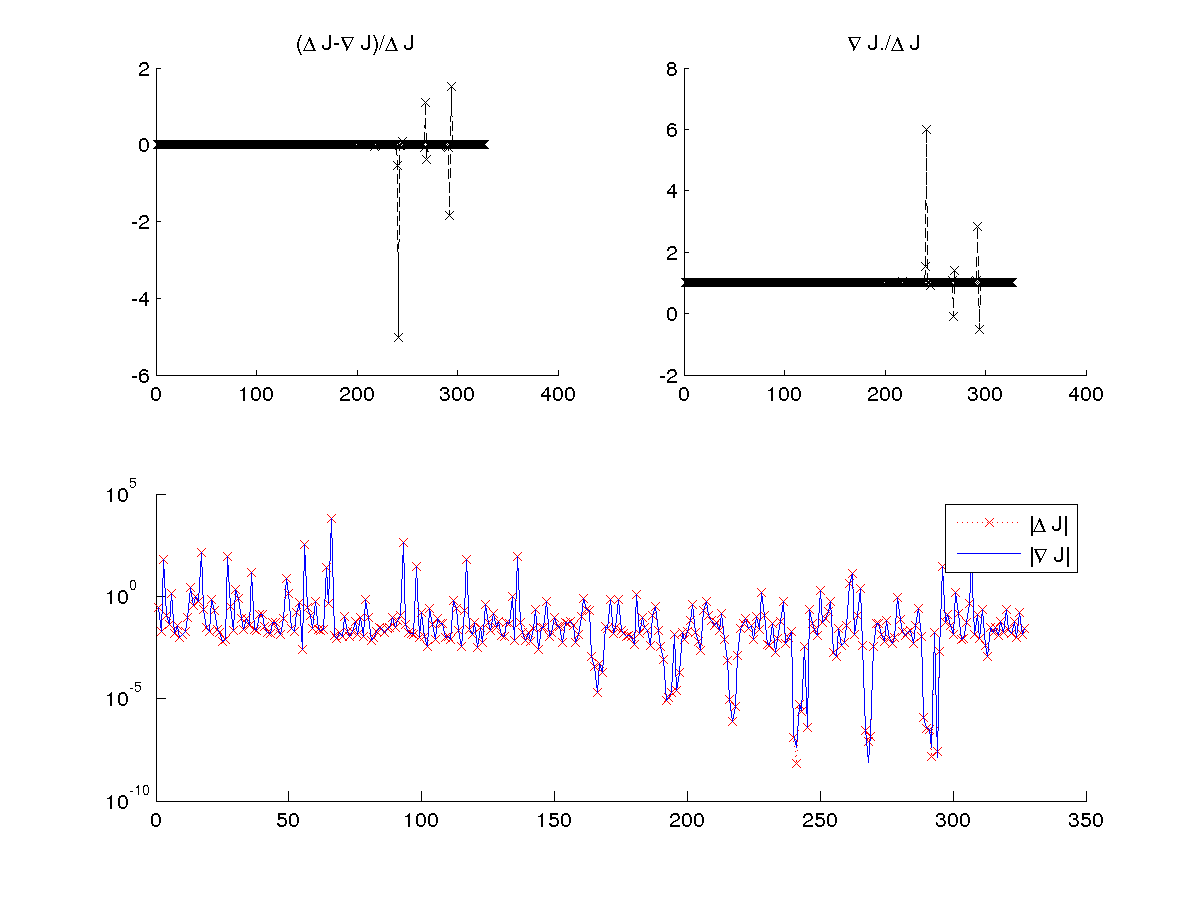
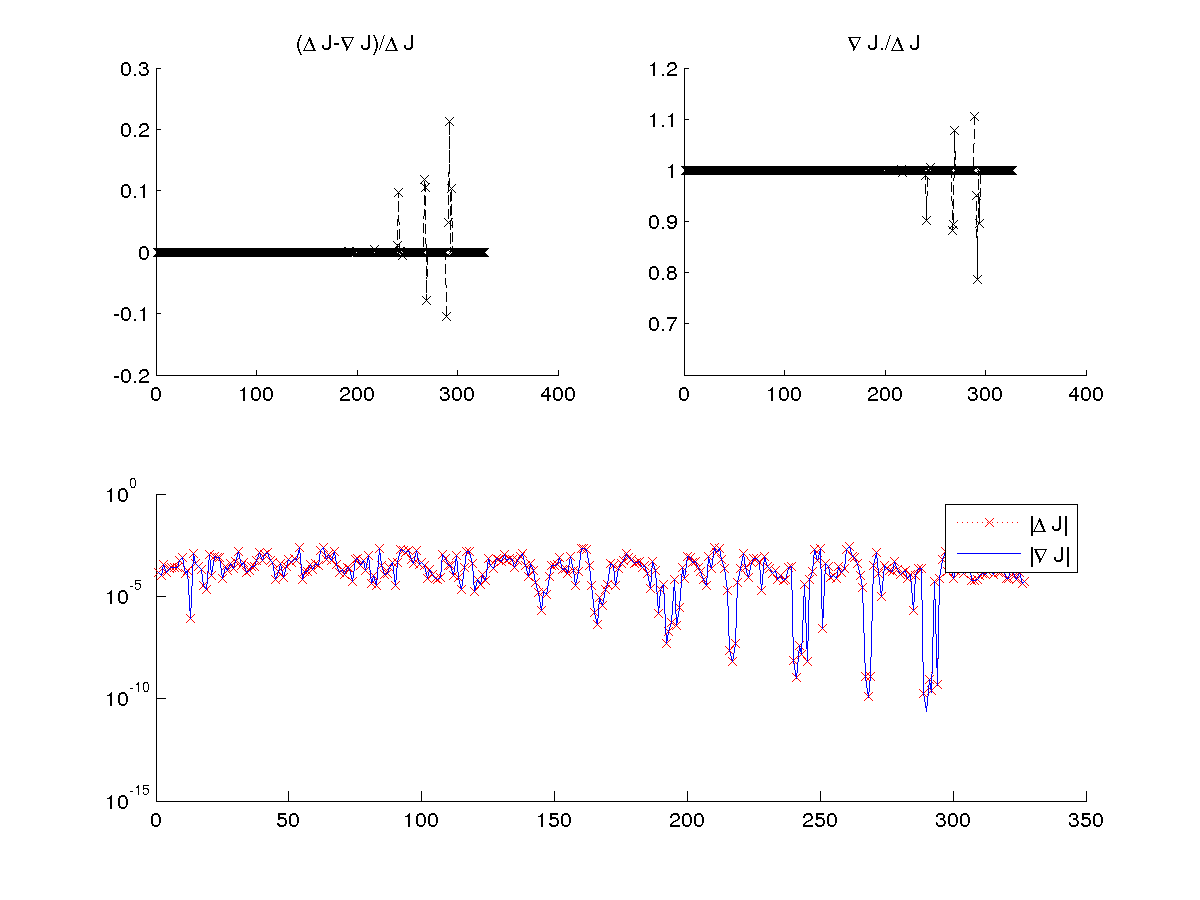
more gradient verification

diff --git a/gradverify.m b/gradverify.m
@@ -6,15 +6,16 @@ numv = size(v,1);
 [M,L] = lapbel(v,f);
 [M_T,L_T] = lapbel(v_T,f_T);
 %%
-for h = [1e-4 1e-6 1e-8 1e-10]
-s = rand(numv,1);
-[J,GJ] = eigencost(s,M,L,D_T,20);
+for h = [eps^.25 1e-6 sqrt(eps)]
+s = .5*rand(numv,1)+.75;
+[~,GJ] = eigencost(s,M,L,D_T,20);
 dJ = zeros(size(GJ));
 for i = 1:numel(s)
   ds = zeros(size(s));
   ds(i) = h;
-  Ji = eigencost(s+ds,M,L,D_T,20);
-  dJ(i) = (Ji-J)/ds(i);
+  Jph = eigencost(s+ds,M,L,D_T,20);
+  Jmh = eigencost(s-ds,M,L,D_T,20);
+  dJ(i) = (Jph-Jmh)/2/ds(i);
 end
 %%
 reldiff = (dJ-GJ)./dJ;
